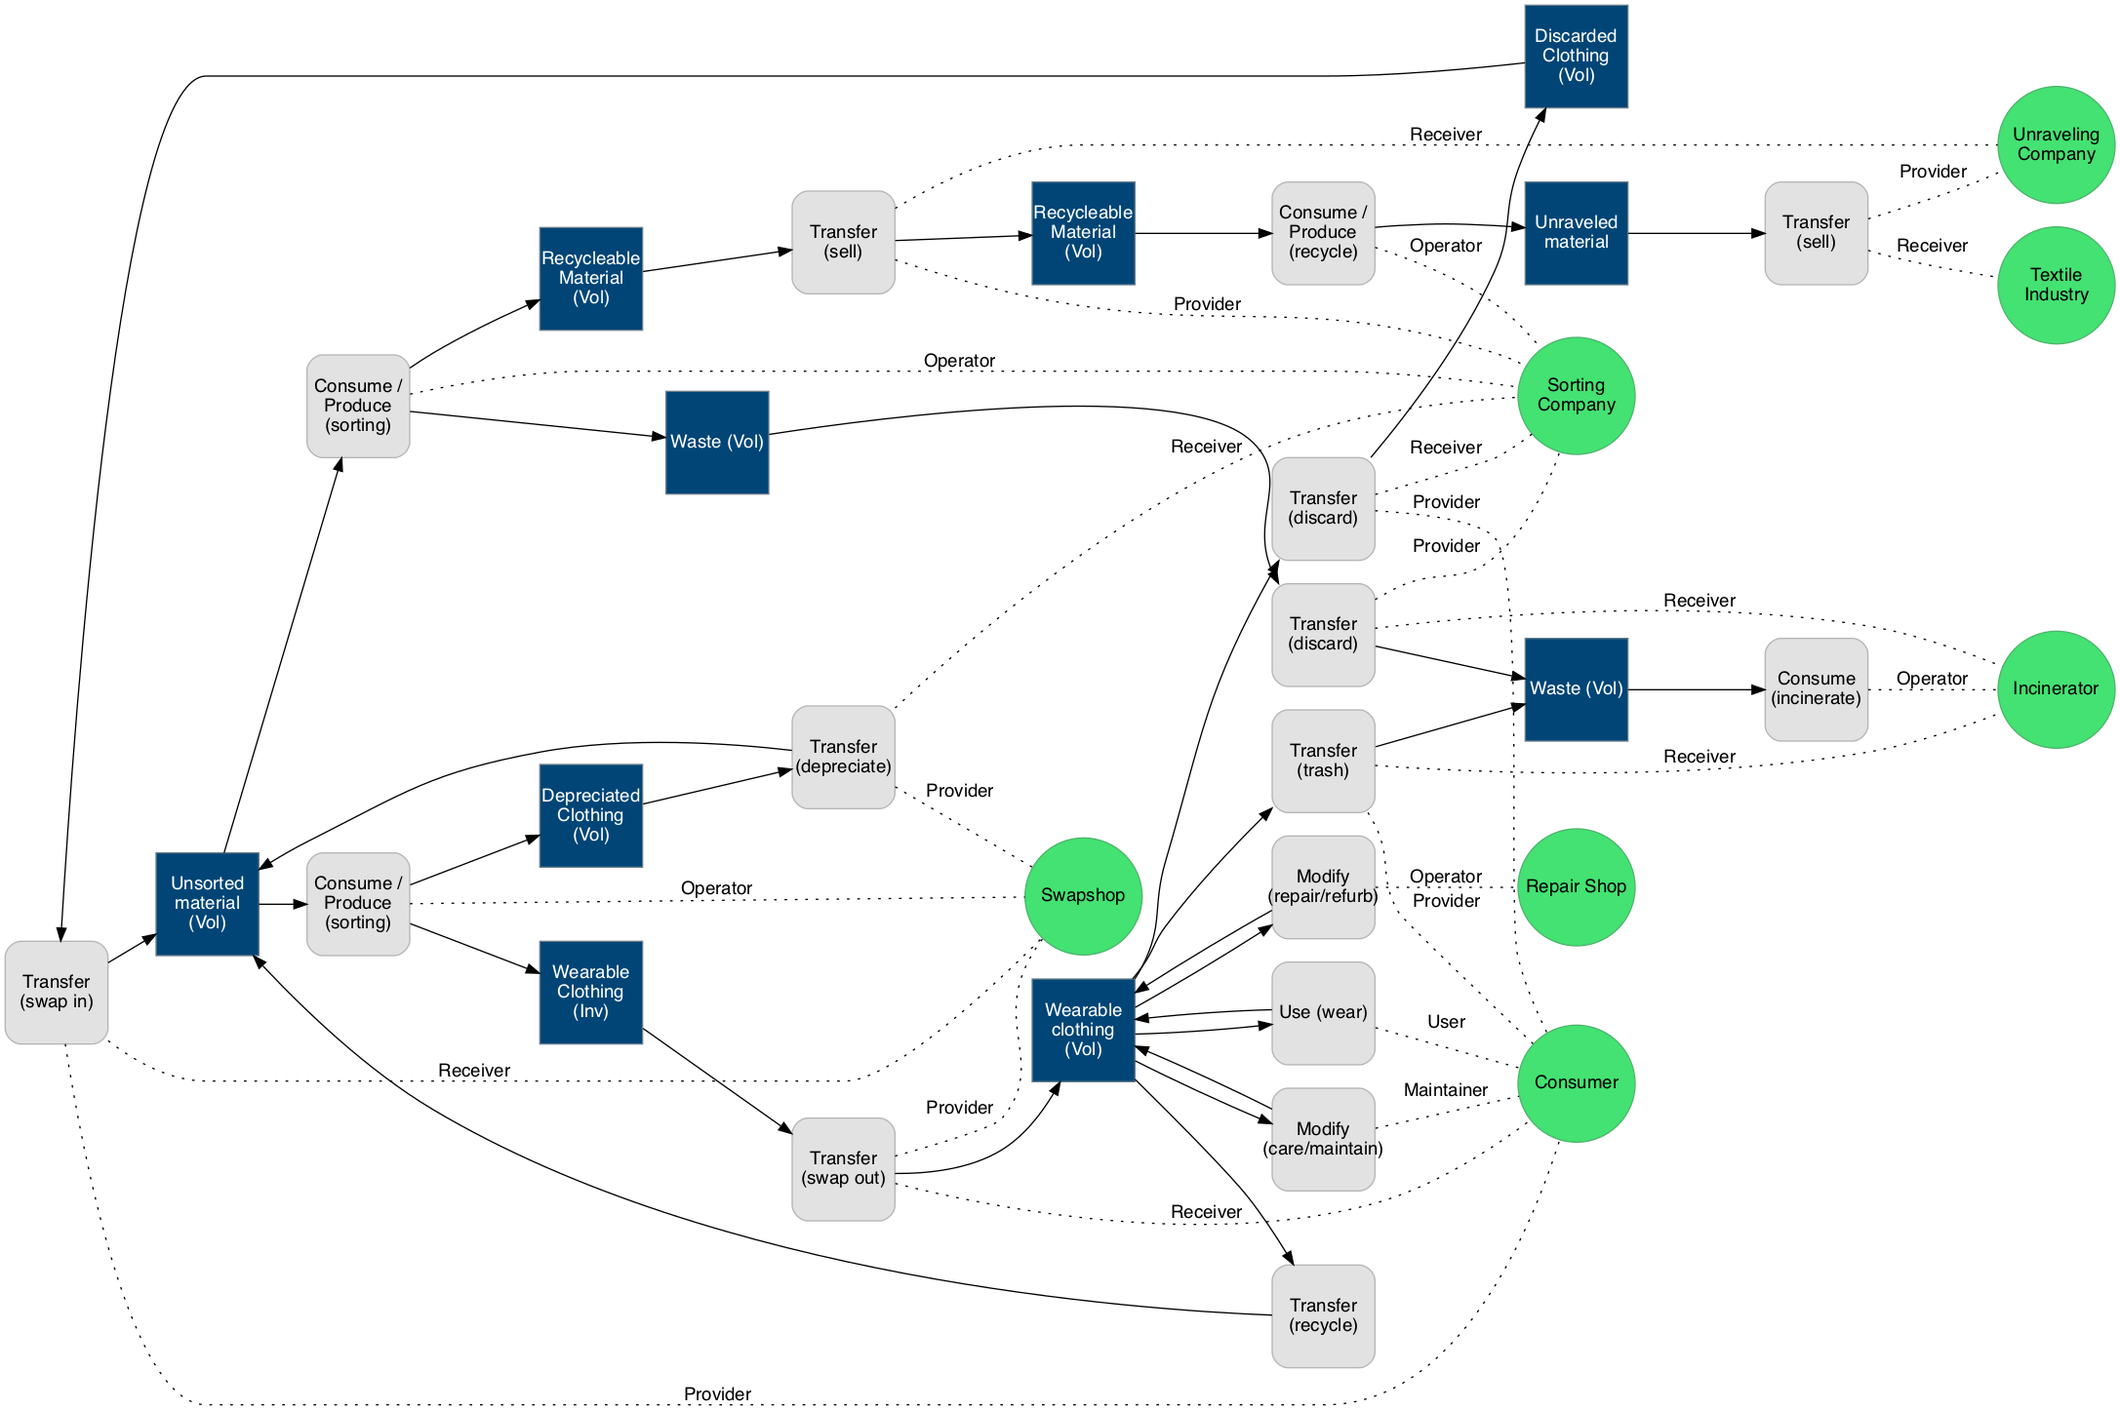
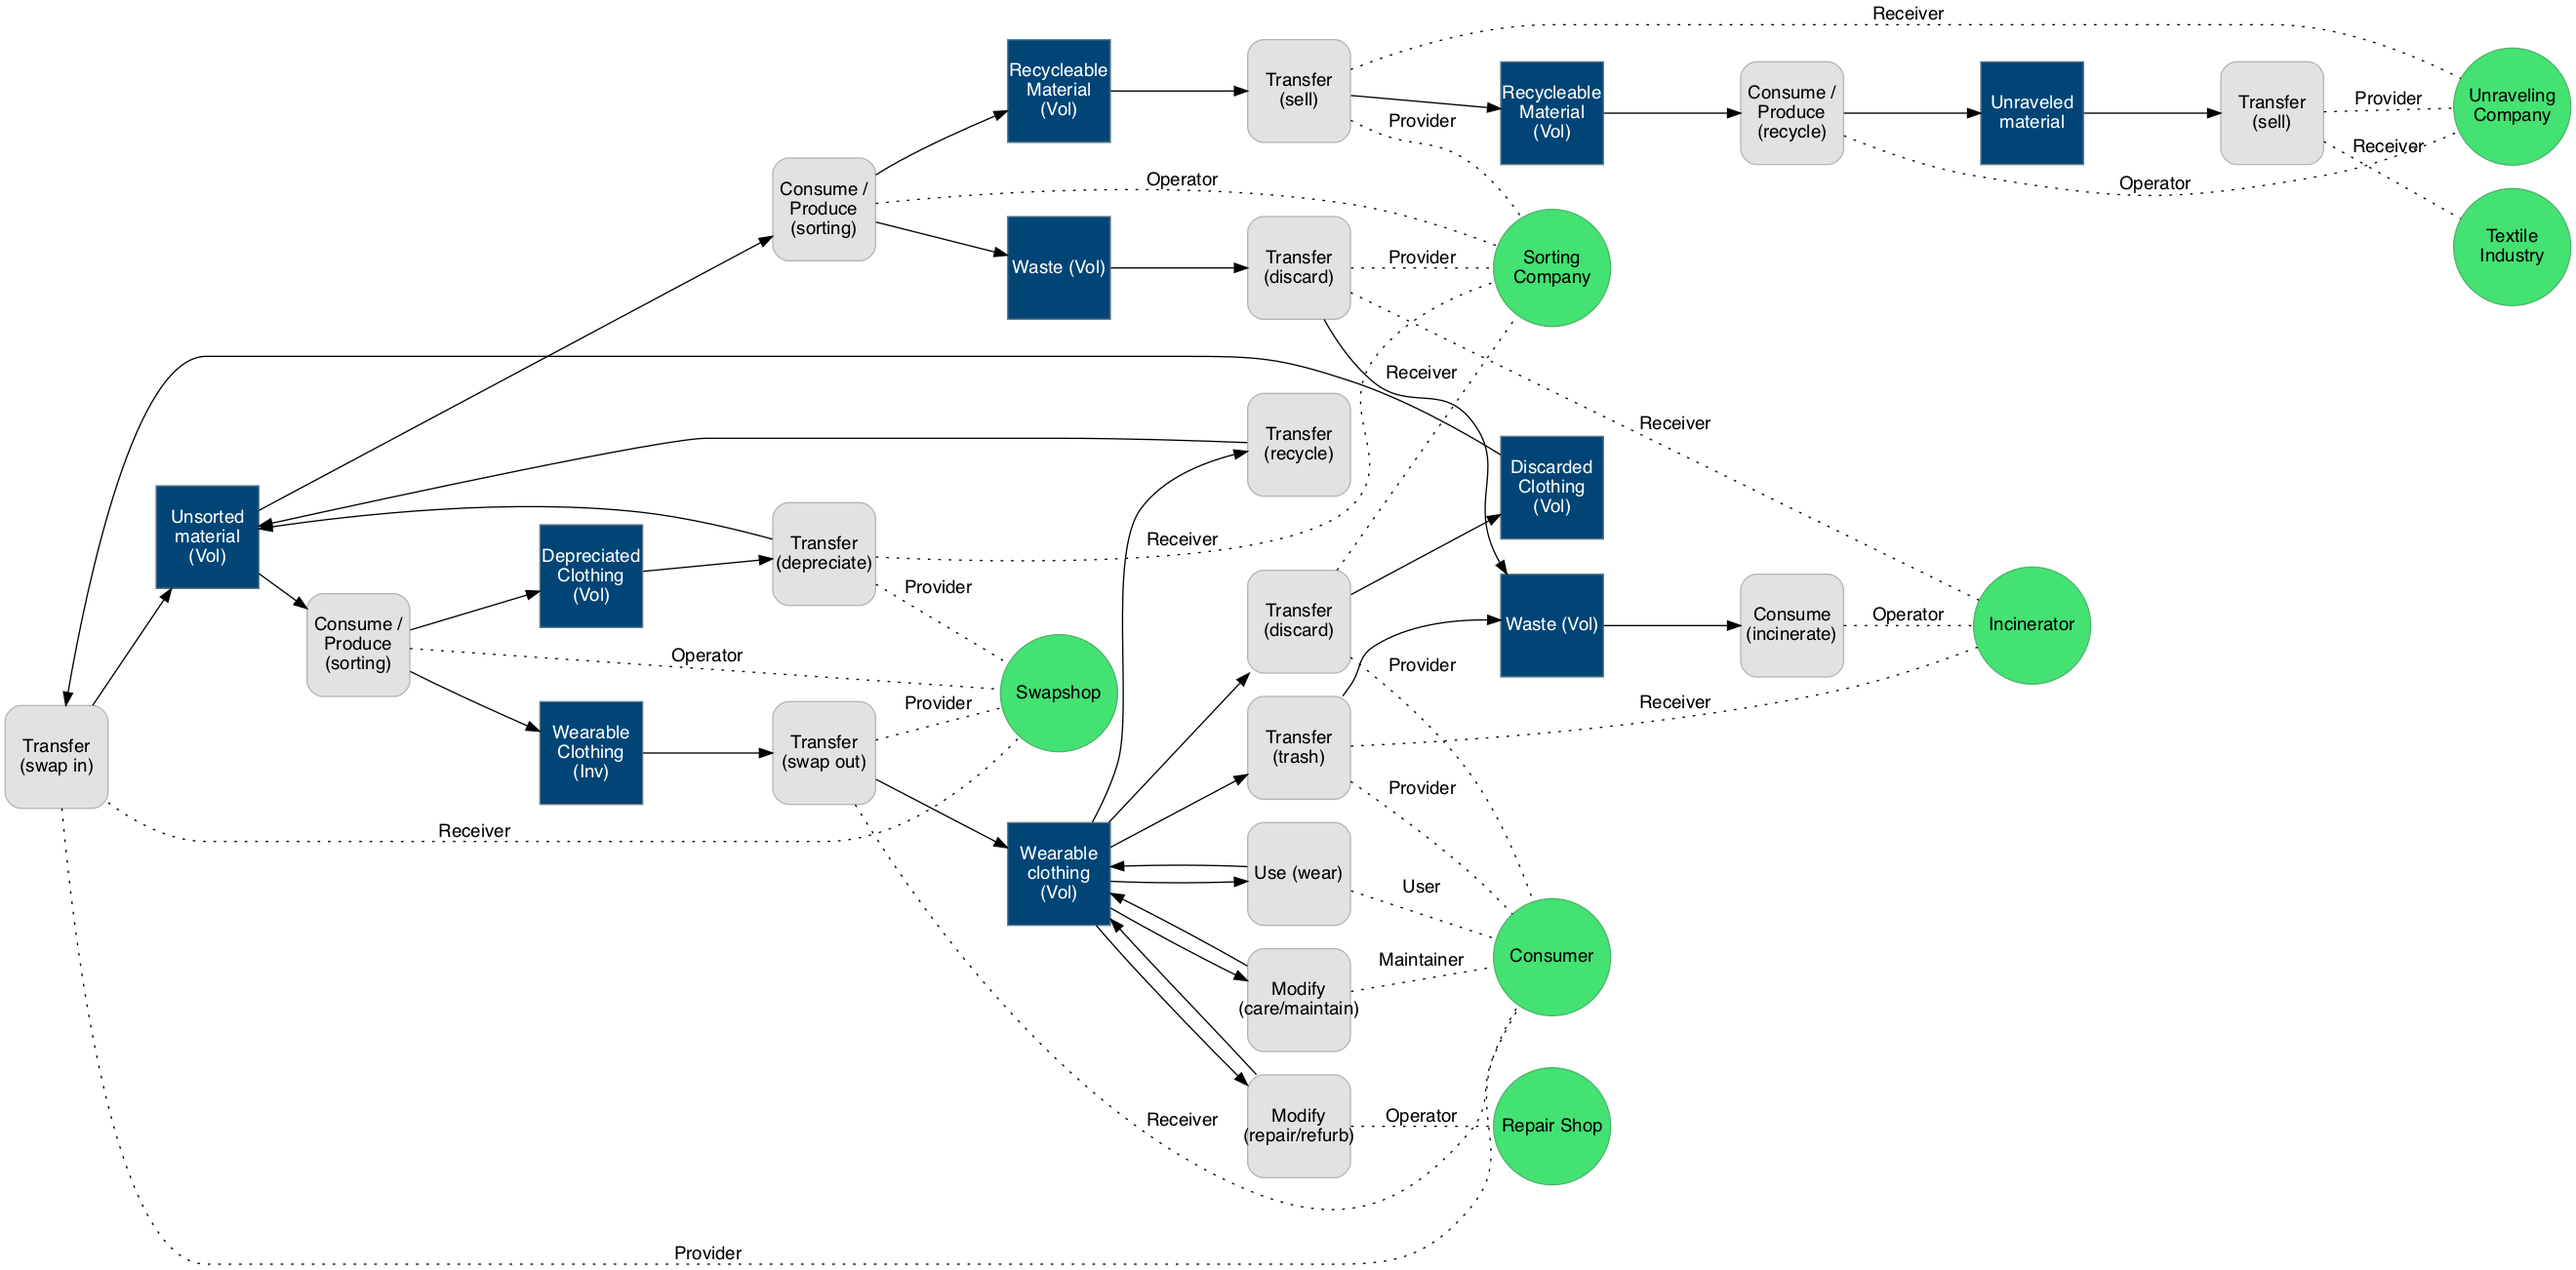
unraveler bugje

diff --git a/graphviz/swapshop.rb b/graphviz/swapshop.rb
@@ -89,10 +89,8 @@ graph("Swapshop"){
   event :e_sorter_sell, "Transfer (sell)"
   role :e_sorter_sell, :a_sorter, "Provider"
   role :e_sorter_sell, :a_unraveler, "Receiver"
-  role :e_recycle, :a_sorter, "Operator"
+  role :e_recycle, :a_unraveler, "Operator"
   role :e_unraveler_sell, :a_unraveler, "Provider"
   role :e_unraveler_sell, :a_ti, "Receiver"
   flow [:e_sort_sc, :r_recyclable, :e_sorter_sell, :r_recyclable2, :e_recycle, :r_unraveled, :e_unraveler_sell ] 
-  
-
 }
